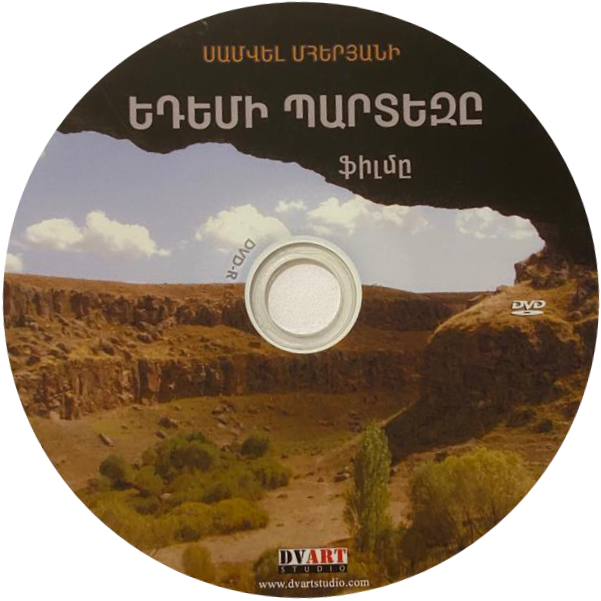
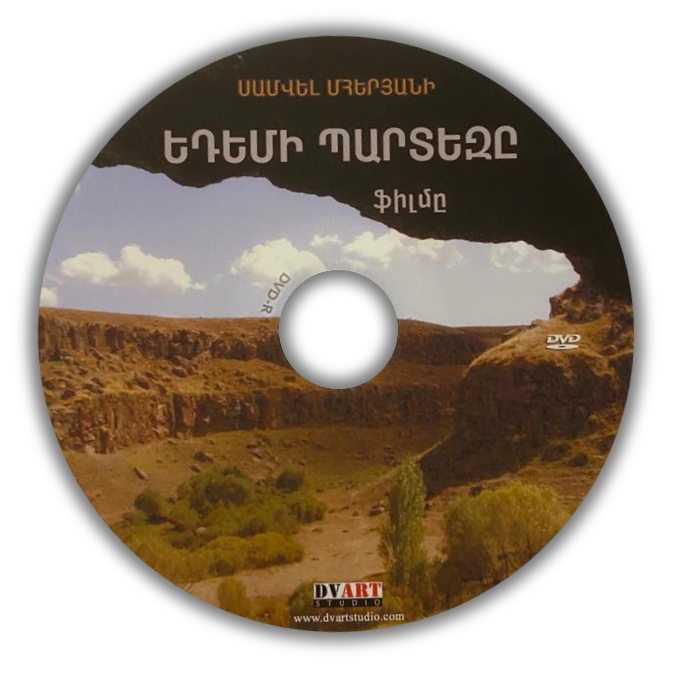
32, 42 | eden garden dvd shadow and page merge

diff --git a/garden-of-eden.html b/garden-of-eden.html
@@ -24,62 +24,41 @@
           <a href="index.html#books">
             <button class="back-button">&lt;</button>
           </a>
-          <!-- <button type="button" class="navbar-toggle" data-toggle="collapse" data-target=".navbar-ex1-collapse"> -->
-            <!-- <span class="sr-only">Toggle navigation</span>
-            <span class="icon-bar"></span>
-            <span class="icon-bar"></span>
-            <span class="icon-bar"></span>
-          </button>
-          <a class="navbar-brand" href="http://startbootstrap.com">Start Bootstrap</a> -->
         </div>
-
-        <!-- Collect the nav links, forms, and other content for toggling -->
-        <!-- <div class="collapse navbar-collapse navbar-ex1-collapse">
-          <ul class="nav navbar-nav">
-            <li><a href="#about">About</a></li>
-            <li><a href="#services">Services</a></li>
-            <li><a href="#contact">Contact</a></li>
-          </ul>
-        </div>
-      </div> -->
     </nav>
 
     <div class="container">
 
       <div class="row">
-
         <div class="col-lg-12">
-          <h1 class="page-header">Եդեմի Պարտեզը<small></small></h1>
+          <h1 class="page-header">Եդեմի Պարտեզը<small> սիրողական ֆիլմ</small></h1>
         </div>
-
       </div>
 
       <div class="row">
-
-        <div > <!-- class="col-md-4" -->
-          <a href="garden-of-eden-movie.html"><img class="img-responsive" src="images/garden-of-eden-dvd.png"></a>
+        <div class="col-md-7">
+          <a href="#youtube-video-film"><img class="img-responsive" src="images/garden-of-eden-dvd.png"></a>
         </div>
-
-        <!-- <div class="col-md-8"> -->
-          <!-- <h4>«Ասողիկ» հրատարակչություն, 2014թ․ 2017թ․ 2018թ․ 2021թ․</h4>
-          <p>
-            Ես եմ Ալֆան եւ Օմեղան (ԱՅԲ–ը եւ ՔԷ-ն)
-            [սկիզբը եւ վերջը ] ասում է Տէրը, նա որ էր եւ
-            որ է եւ որ գալու է, Ամենակալը: (Յայտն. 1.8)
-		      </p> -->
-          <!-- <h3>Project Details</h3>
-          <ul>
-            <li>Lorem Ipsum</li>
-            <li>Dolor Sit Amet</li>
-            <li>Consectetur</li>
-            <li>Adipiscing Elit</li>
-          </ul> -->
-        <!-- </div> -->
-
+        <div class="col-md-5">
+          <h4>
+            <br>
+            2010թ. նկարահանված փաստաճանաչողական այս ֆիլմը ներկայացնում է Արևմտյան 
+            Հայաստանի Խնուս գավառը, որի մասին հեղինակը պատմելով, կադրեր է օգտագործում 
+            իրենց ուխտագնացության ընթացքում անցած տարբեր բնակավայրեից (Մուշ, Բուլանուխ, 
+            Վան և այլն), ցույց տալու համար, որ մեկ գավառի պատմության մասին խոսելով 
+            կարելի է պատկերացում կազմել ամբողջ Արևմտյան Հայաստանի պատմության մասին:
+		      </h4>
+        </div>
       </div>
+      <hr>
 
+      <div class="row">
+        <div id="youtube-video-film" style="text-align: center">
+          <iframe class="youtube-video" src="https://www.youtube.com/embed/Gkn4Cx4xCkA" title="YouTube video player" frameborder="0" allow="accelerometer; autoplay; clipboard-write; encrypted-media; gyroscope; picture-in-picture; web-share" allowfullscreen></iframe>
+        </div>
+      </div>
+	  </div>
 
-	</div>
     <div class="container">
 
       <hr>

diff --git a/garden-of-eden-movie.html b/garden-of-eden-movie.html
@@ -24,75 +24,32 @@
           <a href="garden-of-eden.html">
             <button class="back-button">&lt;</button>
           </a>
-          <!-- <button type="button" class="navbar-toggle" data-toggle="collapse" data-target=".navbar-ex1-collapse"> -->
-            <!-- <span class="sr-only">Toggle navigation</span>
-            <span class="icon-bar"></span>
-            <span class="icon-bar"></span>
-            <span class="icon-bar"></span>
-          </button>
-          <a class="navbar-brand" href="http://startbootstrap.com">Start Bootstrap</a> -->
         </div>
-
-        <!-- Collect the nav links, forms, and other content for toggling -->
-        <!-- <div class="collapse navbar-collapse navbar-ex1-collapse">
-          <ul class="nav navbar-nav">
-            <li><a href="#about">About</a></li>
-            <li><a href="#services">Services</a></li>
-            <li><a href="#contact">Contact</a></li>
-          </ul>
-        </div>
-      </div> -->
     </nav>
 
     <div class="container">
-
       <div class="row">
-
         <div class="col-lg-12">
-          <h1 class="page-header">Եդեմի Պարտեզը<small></small></h1>
+          <h1 class="page-header">Եդեմի Պարտեզը<small> սիրողական ֆիլմ</small></h1>
         </div>
-
       </div>
-
       <div class="row">
-
-        <div>
-			<iframe width="1120" height="630" src="https://www.youtube.com/embed/Gkn4Cx4xCkA" title="YouTube video player" frameborder="0" allow="accelerometer; autoplay; clipboard-write; encrypted-media; gyroscope; picture-in-picture; web-share" allowfullscreen></iframe>
+        <div style="text-align: center">
+			    <iframe class="youtube-video" src="https://www.youtube.com/embed/Gkn4Cx4xCkA" title="YouTube video player" frameborder="0" allow="accelerometer; autoplay; clipboard-write; encrypted-media; gyroscope; picture-in-picture; web-share" allowfullscreen></iframe>
         </div>
 
-        <!-- <div class="col-md-8"> -->
-          <!-- <h4>«Ասողիկ» հրատարակչություն, 2014թ․ 2017թ․ 2018թ․ 2021թ․</h4>
+        <!-- <div class="col-md-8">
+          <h4>«Ասողիկ» հրատարակչություն, 2014թ․ 2017թ․ 2018թ․ 2021թ․</h4>
           <p>
             Ես եմ Ալֆան եւ Օմեղան (ԱՅԲ–ը եւ ՔԷ-ն)
             [սկիզբը եւ վերջը ] ասում է Տէրը, նա որ էր եւ
             որ է եւ որ գալու է, Ամենակալը: (Յայտն. 1.8)
-		      </p> -->
-          <!-- <h3>Project Details</h3>
-          <ul>
-            <li>Lorem Ipsum</li>
-            <li>Dolor Sit Amet</li>
-            <li>Consectetur</li>
-            <li>Adipiscing Elit</li>
-          </ul> -->
-        <!-- </div> -->
-
+		      </p>
+        </div> -->
       </div>
-
-
-	</div>
-    <div class="container">
+	  </div>
 
       <hr>
-
-      <!-- <footer>
-        <div class="row">
-          <div class="col-lg-12">
-            <p>Copyright &copy; Company 2013</p>
-          </div>
-        </div>
-      </footer> -->
-      
-    </div>
 
     <!-- JavaScript -->
     <script src="meta-js/jquery-1.10.2.js"></script>

diff --git a/meta-css/films.css b/meta-css/films.css
@@ -10,4 +10,13 @@ body {
 	background-size: 100%;
 	/* filter: blur(8px);
 	-webkit-filter: blur(8px); */
-  }
+}
+
+.youtube-video {
+	aspect-ratio: 16 / 9;
+	width: 90%;
+}
+
+.h4	{
+	line-height: 200px;
+}
